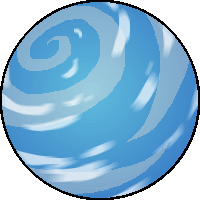
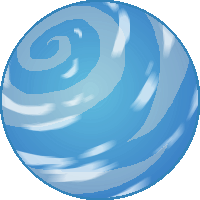
Add player labels and adjust planet rendering

diff --git a/src/ship.py b/src/ship.py
@@ -21,6 +21,18 @@ class Ship(PhysicsObject):
         self.surface = self.get_surface()
         self.since_exhaust = 0
         self.radius = 10
+        self.label = self.game.player_label_font.render(self.player.name,
+                                                        0,
+                                                        self.player.color)
+        self.label_back = pygame.Surface((self.label.get_width() + 10,
+                                          self.label.get_height() + 10))
+        self.label_back.fill(c.BLACK)
+        self.label_back.set_alpha(100)
+        self.label_offset = Pose((0, -35), 0)
+        self.label_pose = self.pose - self.label_offset
+
+        self.scale = 0
+        self.target_scale = 1
 
     def get_surface(self):
         surface = pygame.image.load(c.IMAGE_PATH + "/ship.png").convert()
@@ -51,6 +63,22 @@ class Ship(PhysicsObject):
         for planet in self.game.current_scene.planets:
             self.acceleration.add_pose(planet.get_acceleration(self))
 
+        ds = self.target_scale - self.scale
+        if ds < 0.01:
+            self.scale = self.target_scale
+        self.scale += ds * dt * 8
+
+        if self.pose.y < 120:
+            self.label_offset = Pose((0, 35), 0)
+        if self.pose.y > 150:
+            self.label_offset = Pose((0, -35), 0)
+        dl = self.pose - (self.label_pose - self.label_offset)
+        self.label_pose += dl * dt * 12
+
+        if self.pose.x < 0 or self.pose.x > c.LEVEL_WIDTH or \
+            self.pose.y < 0 or self.pose.y > c.LEVEL_HEIGHT:
+            self.destroy()
+
     def runCommands(self, dt):
         while self.delay <= 0 and self.commandIndex < len(self.program):
             command = self.program[self.commandIndex]
@@ -63,13 +91,29 @@ class Ship(PhysicsObject):
             self.commandIndex += 1
 
     def draw(self, surface, offset=(0, 0)):
-        # w = int(30*c.SHIP_SCALE)
-        # ship_surf = pygame.Surface((2*w, w)).convert()
-        # ship_surf.fill(c.BLACK)
-        # ship_surf.set_colorkey(c.BLACK)
-        # pygame.draw.rect(ship_surf, self.player.color, (w//2, 0, w, w))
-        # pygame.draw.circle(ship_surf, self.player.color, (w*3//2, w//2), w//2)
-        ship_surf = pygame.transform.rotate(self.surface, self.pose.angle)
+        if self.destroyed:
+            return
+
+        if self.label_pose.x < self.label_back.get_width()//2 + 10:
+            self.label_pose.x = self.label_back.get_width()//2 + 10
+        if self.label_pose.x > c.LEVEL_WIDTH - self.label_back.get_width()//2 - 10:
+            self.label_pose.x = c.LEVEL_WIDTH - self.label_back.get_width()//2 - 10
+
+        x = self.label_pose.x + offset[0] - self.label_back.get_width()//2
+        y = self.label_pose.y + offset[1] - self.label_back.get_height()//2
+        surface.blit(self.label_back, (x, y))
+
+        x = self.label_pose.x + offset[0] - self.label.get_width()//2
+        y = self.label_pose.y + offset[1] - self.label.get_height()//2
+        surface.blit(self.label, (x, y))
+
+        if self.scale == 0:
+            return
+
+        ship_surf = pygame.transform.scale(self.surface,
+                                           (int(self.surface.get_width() * self.scale),
+                                           int(self.surface.get_height() * self.scale)))
+        ship_surf = pygame.transform.rotate(ship_surf, self.pose.angle)
         x = self.pose.x + offset[0] - ship_surf.get_width()//2
         y = self.pose.y + offset[1] - ship_surf.get_height()//2
         surface.blit(ship_surf, (x, y))

diff --git a/src/planet.py b/src/planet.py
@@ -18,7 +18,10 @@ class Planet(PhysicsObject):
         self.gravity_radius = gravity_radius if gravity_radius is not None else 2.5*radius
         self.mass = mass if mass is not None else radius*100
 
-        self.surface = pygame.image.load(c.IMAGE_PATH + "/large_planet.png")
+        if self.radius > 50:
+            self.surface = pygame.image.load(c.IMAGE_PATH + "/large_planet.png")
+        else:
+            self.surface = pygame.image.load(c.IMAGE_PATH + "/small_planet.png")
         self.surface = pygame.transform.scale(self.surface, (radius*2, radius*2))
         self.shadow = pygame.image.load(c.IMAGE_PATH + "/planet_shadow.png")
         self.shadow = pygame.transform.scale(self.shadow,
@@ -54,6 +57,7 @@ class Planet(PhysicsObject):
         y += offset[1]
         surf.blit(my_surface, (x - my_surface.get_width()//2, y - my_surface.get_height()//2))
         surf.blit(self.shadow, (x - self.shadow.get_width()//2, y - self.shadow.get_height()//2))
+        pygame.draw.circle(surf, c.BLACK, (x, y), self.radius+2, width=2)
         self.draw_gravity_region(surf, offset)
         # pygame.draw.circle(surf, (200, 200, 200), (x, y), self.radius)
 

diff --git a/src/level_scene.py b/src/level_scene.py
@@ -19,8 +19,8 @@ class LevelScene(Scene):
                         Planet(self.game, (500, 500), radius=50),
                         Moon(self.game, (800, 300)),
                         Wormhole(self.game, (675, 500), (600, 250))]
-        self.ships = [Ship(self.game, "r90 t33 d200; t0 d500; r0 t33 d2000; r360 d260; r0 t33 d800; t0 d2500; t21 d1500; t0", self.game.players["Paul"], (500, 200), 180),
-                      Ship(self.game, "t100 r180", self.game.players["Jeremy"], (500, 200), 180)]
+        self.ships = [Ship(self.game, "r90 t33 d200; t0 d500; r0 t33 d2000; r360 d260; r0 t33 d800; t0 d2500; t21 d1500; t0", self.game.players["PlasmaStarfish"], (500, 200), 180),
+                      Ship(self.game, "t100 r180", self.game.players["superduperpacman42"], (500, 200), 180)]
         self.surface = pygame.Surface((c.LEVEL_WIDTH, c.LEVEL_HEIGHT))
         self.alignment = c.LEFT, c.DOWN
         self.offset = self.get_initial_offset()

diff --git a/src/explosion.py b/src/explosion.py
@@ -27,9 +27,10 @@ class Explosion(Particle):
         surf = pygame.Surface((radius*2, radius*2))
         surf.fill(c.BLACK)
         surf.set_colorkey(c.BLACK)
-        r = 255 - self.through(loading=2) * (255 - self.ship.player.color[0])
-        g = 255 - self.through(loading=2) * (255 - self.ship.player.color[1])
-        b = 255 - self.through(loading=2) * (255 - self.ship.player.color[2])
+        r = 255 - self.through(loading=2.5) * (255 - self.ship.player.color[0])
+        g = 255 - self.through(loading=2.5) * (255 - self.ship.player.color[1])
+        b = 255 - self.through(loading=2.5) * (255 - self.ship.player.color[2])
+
         pygame.draw.circle(surf, (r, g, b), (radius, radius), radius)
         x = self.pose.x - offset[0] - surf.get_width()//2
         y = self.pose.y - offset[1] - surf.get_height()//2

diff --git a/src/game.py b/src/game.py
@@ -20,7 +20,8 @@ class Game:
             self.screen = pygame.display.set_mode(c.WINDOW_SIZE)
         self.clock = pygame.time.Clock()
         self.stream = Stream(channel="TwitchPlaysPokemon")
-        self.players = {name:Player(self, name) for name in ["Paul", "Jeremy"]}
+        self.players = {name:Player(self, name) for name in ["PlasmaStarfish", "superduperpacman42"]}
+        self.player_label_font = pygame.font.Font(c.FONT_PATH + "/pixel_caps.ttf", 12)
         self.current_scene = LevelScene(self)
         self.main()
 

diff --git a/src/constants.py b/src/constants.py
@@ -41,5 +41,6 @@ THRUST = 2
 LOG_PATH = "error_log.txt"
 SCORE_SAVE_PATH = "../data"
 IMAGE_PATH = "../images"
+FONT_PATH = "../fonts"
 
 GRAVITY_CONSTANT = 600
